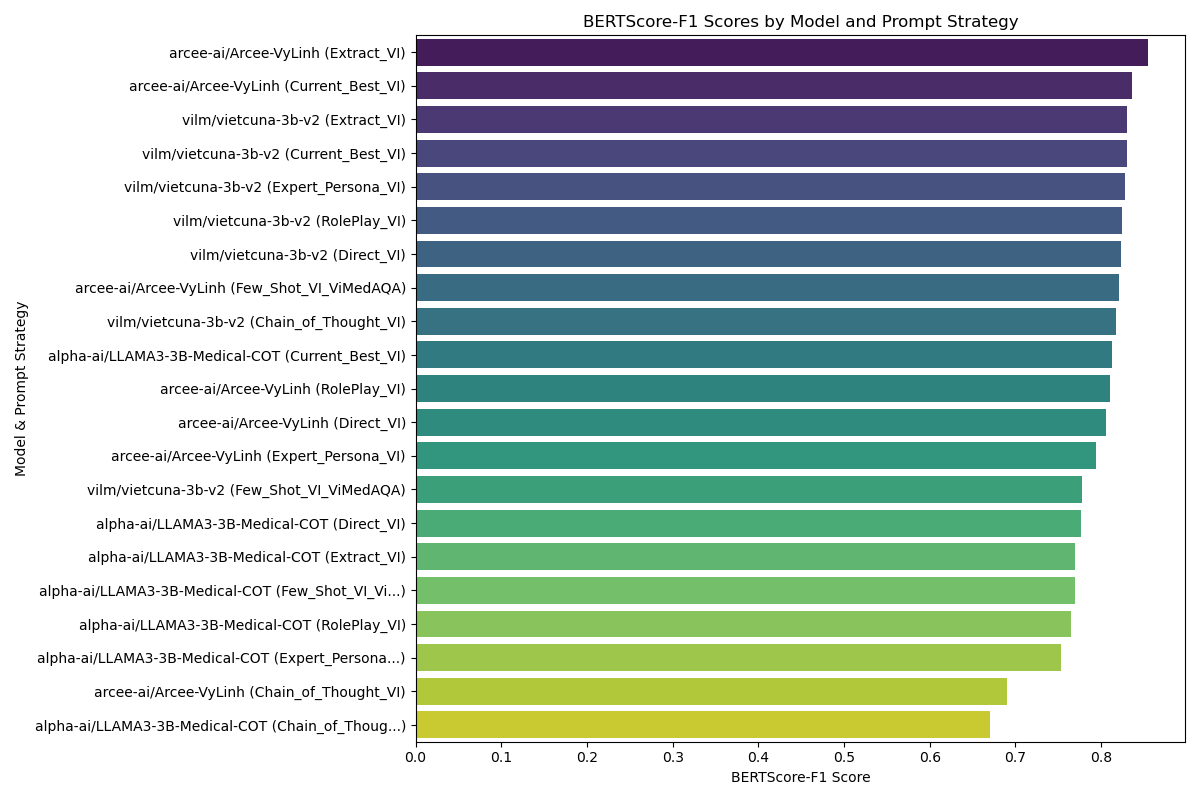
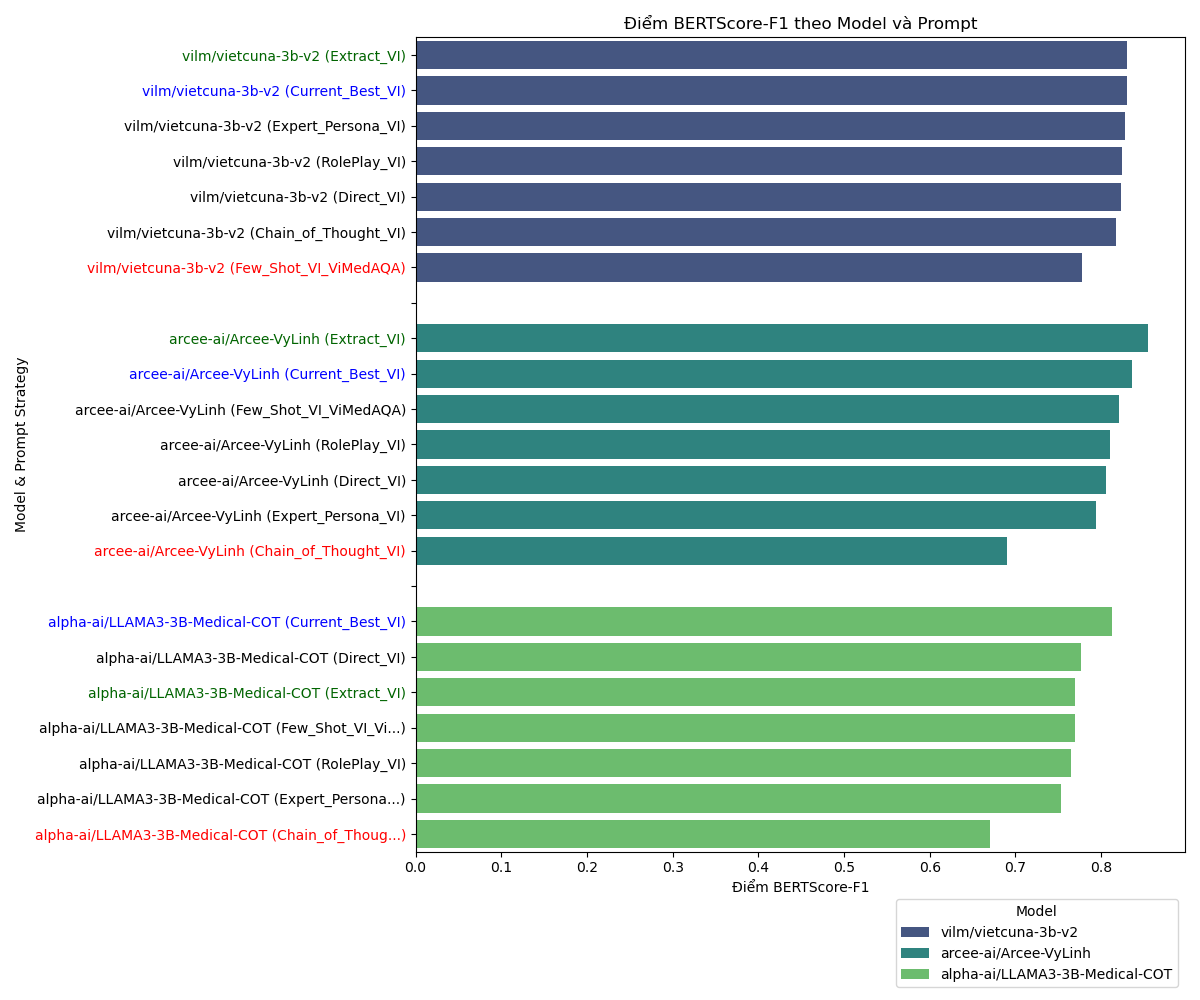
Bertscore by model

diff --git a/eval_report/200samples_7prompts_3models.py b/eval_report/200samples_7prompts_3models.py
@@ -3,6 +3,8 @@ import matplotlib.pyplot as plt
 import seaborn as sns
 import os
 import sys
+from sklearn.linear_model import LinearRegression
+import numpy as np
 
 # Create the DataFrame from the provided data
 data = {
@@ -41,6 +43,16 @@ df = pd.DataFrame(data)
 
 # Extract Model and Prompt Strategy into separate columns
 df[['Model', 'Prompt Strategy']] = df['Model & Prompt Strategy'].str.extract(r'([^\(]+)\s\((.*)\)')
+model_order = [
+    'vilm/vietcuna-3b-v2',
+    'arcee-ai/Arcee-VyLinh',
+    'alpha-ai/LLAMA3-3B-Medical-COT'
+]
+df['Model'] = pd.Categorical(df['Model'], categories=model_order, ordered=True)
+
+# --- Sắp xếp DataFrame để nhóm theo Model ---
+# Sắp xếp theo Model, sau đó theo BERTScore-F1 giảm dần để dễ đọc hơn
+df = df.sort_values(by=['Model', 'BERTScore-F1'], ascending=[True, False]).reset_index(drop=True)
 
 # --- Create a new directory for results ---
 script_path = os.path.abspath(sys.argv[0])
@@ -51,78 +63,124 @@ os.makedirs(results_dir, exist_ok=True)
 print(f"Results will be saved in: {results_dir}")
 
 # --- Save Summary Tables to a Markdown file within the new directory ---
-report_filename = os.path.join(results_dir, 'performance_report.md') # Changed extension to .md
-with open(report_filename, 'w') as f:
-    f.write("# Language Model Performance Report\n\n")
+report_filename = os.path.join(results_dir, 'performance_report.md')
+with open(report_filename, 'w', encoding='utf-8') as f: # Thêm encoding='utf-8' để hỗ trợ tiếng Việt
+    f.write("# Báo cáo hiệu suất các mô hình ngôn ngữ\n\n")
 
-    # Average performance by model
-    avg_performance_by_model = df.groupby('Model').mean(numeric_only=True)
-    f.write("## Average Performance by Model\n\n")
-    f.write(avg_performance_by_model.to_markdown()) # <--- Changed to .to_markdown()
-    f.write("\n\n") # Add extra newlines for proper Markdown spacing
-
-    # Best performing prompt strategy for each model based on BERTScore-F1
-    best_prompt_by_model = df.loc[df.groupby('Model')['BERTScore-F1'].idxmax()]
-    f.write("## Best Performing Prompt Strategy by Model (based on BERTScore-F1)\n\n")
-    f.write(best_prompt_by_model[['Model', 'Prompt Strategy', 'BERTScore-F1', 'Generation Time (s)']].to_markdown()) # <--- Changed to .to_markdown()
-    f.write("\n\n") # Add extra newlines for proper Markdown spacing
-
-    f.write("## Linear Regression Analysis (BERTScore-F1 vs. Generation Time)\n\n")
+    # --- THÊM PHẦN TÓM TẮT MỚI ---
+    f.write("## Tóm tắt hiệu suất theo từng LLM\n\n")
+    # Lặp qua từng model để tìm prompt tốt nhất và tệ nhất
+    # Dùng df['Model'].unique() đã được sắp xếp để đảm bảo thứ tự
     for model_name in df['Model'].unique():
         model_df = df[df['Model'] == model_name]
-        # Skip models with fewer than 2 data points for regression, as it would be ill-defined.
-        if len(model_df) < 2:
-            f.write(f"\n### Model: {model_name.strip()}\n")
-            f.write(f"  *Not enough data points ({len(model_df)}) for meaningful linear regression.*\n")
-            continue
+        best_prompt_row = model_df.loc[model_df['BERTScore-F1'].idxmax()]
+        worst_prompt_row = model_df.loc[model_df['BERTScore-F1'].idxmin()]
 
-        X = model_df[['Generation Time (s)']]
-        y = model_df['BERTScore-F1']
+        f.write(f"### {model_name.strip()}\n\n")
+        f.write(f"*   **Prompt hiệu quả nhất:** `{best_prompt_row['Prompt Strategy']}` với BERTScore-F1 là **{best_prompt_row['BERTScore-F1']:.4f}**.\n")
+        f.write(f"*   **Prompt kém hiệu quả nhất:** `{worst_prompt_row['Prompt Strategy']}` với BERTScore-F1 là **{worst_prompt_row['BERTScore-F1']:.4f}**.\n\n")
 
-        from sklearn.linear_model import LinearRegression # Moved import here to keep main imports clean
-        reg = LinearRegression().fit(X, y)
-        r_squared = reg.score(X, y)
-        coef = reg.coef_[0]
-        intercept = reg.intercept_
+    # Average performance by model
+    avg_performance_by_model = df.groupby('Model', observed=False).mean(numeric_only=True)
+    f.write("## Hiệu suất trung bình theo Model\n\n")
+    f.write(avg_performance_by_model.to_markdown())
+    f.write("\n\n")
 
-        f.write(f"\n### Model: {model_name.strip()}\n")
-        f.write(f"```\n") # Markdown code block for better readability of results
-        f.write(f"R-squared: {r_squared:.4f}\n")
-        f.write(f"Coefficient (slope): {coef:.8f}\n")
-        f.write(f"Intercept: {intercept:.4f}\n")
-        f.write(f"Interpretation: For every 1-second increase in generation time, the BERTScore-F1 is predicted to decrease by {abs(coef):.8f}.\n")
-        f.write(f"```\n") # End of code block
-    f.write("\n") # Ensure a newline at the end
+    # Best performing prompt strategy for each model based on BERTScore-F1
+    best_prompt_by_model = df.loc[df.groupby('Model', observed=False)['BERTScore-F1'].idxmax()]
+    f.write("## Prompt hiệu quả nhất theo từng Model (dựa trên BERTScore-F1)\n\n")
+    f.write(best_prompt_by_model[['Model', 'Prompt Strategy', 'BERTScore-F1', 'Generation Time (s)']].to_markdown())
+    f.write("\n\n")
 
     # Add links to the saved graphs
-    f.write("## Visualizations\n\n")
-    f.write(f"### BERTScore-F1 Scores by Model and Prompt Strategy\n")
-    f.write(f"![BERTScore-F1 Scores Bar Plot]({os.path.basename(os.path.join(results_dir, 'bertscore_f1_scores_barplot.png'))})\n\n")
-    f.write(f"### Generation Time vs. BERTScore-F1 with Linear Regression\n")
-    f.write(f"![Generation Time vs. BERTScore-F1 Scatter Plot]({os.path.basename(os.path.join(results_dir, 'generation_time_vs_bertscore_regression.png'))})\n\n")
+    f.write("## Biểu đồ trực quan\n\n")
+    f.write(f"### Điểm BERTScore-F1 theo Model và Prompt\n")
+    # Sử dụng os.path.basename để lấy tên file cho đường dẫn tương đối trong Markdown
+    graph1_basename = os.path.basename(os.path.join(results_dir, 'bertscore_f1_scores_barplot.png'))
+    f.write(f"![Biểu đồ cột điểm BERTScore-F1]({graph1_basename})\n\n")
+
+    f.write(f"### Thời gian tạo và điểm BERTScore-F1 (có đường hồi quy)\n")
+    graph2_basename = os.path.basename(os.path.join(results_dir, 'generation_time_vs_bertscore_regression.png'))
+    f.write(f"![Biểu đồ phân tán thời gian và điểm BERTScore-F1]({graph2_basename})\n\n")
 
 
-print(f"Textual report saved to {report_filename}")
+print(f"Báo cáo Markdown đã được lưu tại: {report_filename}")
+
+# --- Add small gaps between the bars of each model ---
+# Create a list to hold all the DataFrame pieces
+dfs_to_concat = []
+for i, model_name in enumerate(model_order):
+    # Add the model's DataFrame to the list
+    model_df = df[df['Model'] == model_name].copy()
+    dfs_to_concat.append(model_df)
+
+    # Add a separator after each model except the last one
+    if i < len(model_order) - 1:
+        # Create the separator row as a dictionary
+        separator_row_data = {col: np.nan for col in df.columns}
+        separator_row_data['Model & Prompt Strategy'] = ' ' * (i + 1)
+        separator_row_data['Prompt Strategy'] = 'SEPARATOR'
+        
+        # Convert the dictionary to a single-row DataFrame
+        separator_df = pd.DataFrame([separator_row_data])
+        
+        # KEY CHANGE: Force the separator DataFrame to have the same dtypes as the original.
+        # This is the definitive fix for the FutureWarning.
+        separator_df = separator_df.astype(df.dtypes)
+        
+        # Add the correctly-typed separator DataFrame to the list
+        dfs_to_concat.append(separator_df)
+
+# Perform a single, efficient concatenation of all pieces. The warning will now be gone.
+df_with_gaps = pd.concat(dfs_to_concat, ignore_index=True)
+
+# Re-apply categorical type just to be safe, although it should be preserved
+df_with_gaps['Model'] = pd.Categorical(df_with_gaps['Model'], categories=model_order, ordered=True)
 
 # --- Generate and Save Graphs within the new directory ---
 # Bar chart of BERTScore-F1 scores by Model and Prompt Strategy
-plt.figure(figsize=(12, 8))
-sns.barplot(
-    data=df,
+plt.figure(figsize=(12, 10)) # Tăng chiều cao để vừa với các nhãn
+ax = sns.barplot(
+    data=df_with_gaps, # df đã được sắp xếp
     x='BERTScore-F1',
     y='Model & Prompt Strategy',
-    hue='Model & Prompt Strategy',
-    palette='viridis',
-    legend=False
+    hue='Model', # Tô màu theo Model để dễ phân biệt
+    dodge=False, # Tắt dodge để các thanh thẳng hàng
+    palette='viridis'
 )
-plt.title('BERTScore-F1 Scores by Model and Prompt Strategy')
-plt.xlabel('BERTScore-F1 Score')
+plt.title('Điểm BERTScore-F1 theo Model và Prompt')
+plt.xlabel('Điểm BERTScore-F1')
 plt.ylabel('Model & Prompt Strategy')
+plt.legend(title='Model', bbox_to_anchor=(1, -0.05), loc='upper right') # Đã thay đổi
 plt.tight_layout()
+
+# Identify the lowest performing prompt for each model
+lowest_prompts_per_model_full_string = df.loc[df.groupby('Model', observed=False)['BERTScore-F1'].idxmin()]['Model & Prompt Strategy'].tolist()
+
+# Iterate through the y-axis tick labels and color them
+for label_text in ax.get_yticklabels():
+    full_label_text = label_text.get_text()
+
+    # Extract Prompt Strategy from the full label text
+    start_index = full_label_text.find('(')
+    end_index = full_label_text.find(')')
+    
+    if start_index != -1 and end_index != -1:
+        prompt_strategy = full_label_text[start_index + 1 : end_index]
+        
+        # Apply coloring based on specific prompt strategies
+        if prompt_strategy == 'Extract_VI':
+            label_text.set_color('darkgreen')
+        elif prompt_strategy == 'Current_Best_VI':
+            label_text.set_color('blue')
+        # Apply coloring for the lowest prompt for each model
+        elif full_label_text in lowest_prompts_per_model_full_string:
+            label_text.set_color('red')
+
 graph1_filename = os.path.join(results_dir, 'bertscore_f1_scores_barplot.png')
 plt.savefig(graph1_filename)
 plt.close()
-print(f"Graph '{graph1_filename}' saved.")
+print(f"Biểu đồ '{graph1_filename}' đã được lưu.")
 
 
 # Scatter plot of Generation Time vs. BERTScore-F1 with Regression Lines
@@ -131,8 +189,7 @@ ax = sns.scatterplot(data=df, x='Generation Time (s)', y='BERTScore-F1', hue='Mo
 
 for model_name in df['Model'].unique():
     model_df = df[df['Model'] == model_name]
-    # Ensure there's enough data for regression line calculation
-    if len(model_df) > 1: # Regression needs at least 2 points
+    if len(model_df) > 1:
         sns.regplot(
             data=model_df,
             x='Generation Time (s)',
@@ -143,12 +200,12 @@ for model_name in df['Model'].unique():
             line_kws={'alpha': 0.2}
         )
 
-plt.title('Generation Time vs. BERTScore-F1 with Linear Regression')
-plt.xlabel('Generation Time (s)')
-plt.ylabel('BERTScore-F1')
+plt.title('Thời gian tạo và điểm BERTScore-F1 (có đường hồi quy)')
+plt.xlabel('Thời gian tạo (s)')
+plt.ylabel('Điểm BERTScore-F1')
 plt.legend(bbox_to_anchor=(1.05, 1), loc='upper left')
 plt.tight_layout()
 graph2_filename = os.path.join(results_dir, 'generation_time_vs_bertscore_regression.png')
 plt.savefig(graph2_filename)
 plt.close()
-print(f"Graph '{graph2_filename}' saved.")
+print(f"Biểu đồ '{graph2_filename}' đã được lưu.")

diff --git a/eval_report/200samples_7prompts_3models/performance_report.md b/eval_report/200samples_7prompts_3models/performance_report.md
@@ -1,53 +1,43 @@
-# Language Model Performance Report
+# Báo cáo hiệu suất các mô hình ngôn ngữ
 
-## Average Performance by Model
+## Tóm tắt hiệu suất theo từng LLM
+
+### vilm/vietcuna-3b-v2
+
+*   **Prompt hiệu quả nhất:** `Extract_VI` với BERTScore-F1 là **0.8300**.
+*   **Prompt kém hiệu quả nhất:** `Few_Shot_VI_ViMedAQA` với BERTScore-F1 là **0.7781**.
+
+### arcee-ai/Arcee-VyLinh
+
+*   **Prompt hiệu quả nhất:** `Extract_VI` với BERTScore-F1 là **0.8551**.
+*   **Prompt kém hiệu quả nhất:** `Chain_of_Thought_VI` với BERTScore-F1 là **0.6903**.
+
+### alpha-ai/LLAMA3-3B-Medical-COT
+
+*   **Prompt hiệu quả nhất:** `Current_Best_VI` với BERTScore-F1 là **0.8124**.
+*   **Prompt kém hiệu quả nhất:** `Chain_of_Thoug...` với BERTScore-F1 là **0.6698**.
+
+## Hiệu suất trung bình theo Model
 
 | Model                          |   ROUGE-L |     BLEU |   METEOR |   BERTScore-F1 |   Generation Time (s) |
 |:-------------------------------|----------:|---------:|---------:|---------------:|----------------------:|
-| alpha-ai/LLAMA3-3B-Medical-COT |  0.390086 | 0.147314 | 0.421771 |       0.7595   |               687.016 |
-| arcee-ai/Arcee-VyLinh          |  0.473357 | 0.218086 | 0.570871 |       0.801586 |              2027.6   |
 | vilm/vietcuna-3b-v2            |  0.512029 | 0.2251   | 0.525357 |       0.818643 |               689.79  |
+| arcee-ai/Arcee-VyLinh          |  0.473357 | 0.218086 | 0.570871 |       0.801586 |              2027.6   |
+| alpha-ai/LLAMA3-3B-Medical-COT |  0.390086 | 0.147314 | 0.421771 |       0.7595   |               687.016 |
 
-## Best Performing Prompt Strategy by Model (based on BERTScore-F1)
+## Prompt hiệu quả nhất theo từng Model (dựa trên BERTScore-F1)
 
-|     | Model                          | Prompt Strategy | BERTScore-F1 | Generation Time (s) |
-| --: | :----------------------------- | :-------------- | -----------: | ------------------: |
-|   9 | alpha-ai/LLAMA3-3B-Medical-COT | Current_Best_VI |       0.8124 |              307.17 |
-|   0 | arcee-ai/Arcee-VyLinh          | Extract_VI      |       0.8551 |              754.84 |
-|   2 | vilm/vietcuna-3b-v2            | Extract_VI      |         0.83 |              556.98 |
+|    | Model                          | Prompt Strategy   |   BERTScore-F1 |   Generation Time (s) |
+|---:|:-------------------------------|:------------------|---------------:|----------------------:|
+|  0 | vilm/vietcuna-3b-v2            | Extract_VI        |         0.83   |                556.98 |
+|  7 | arcee-ai/Arcee-VyLinh          | Extract_VI        |         0.8551 |                754.84 |
+| 14 | alpha-ai/LLAMA3-3B-Medical-COT | Current_Best_VI   |         0.8124 |                307.17 |
 
-## Linear Regression Analysis (BERTScore-F1 vs. Generation Time)
+## Biểu đồ trực quan
 
+### Điểm BERTScore-F1 theo Model và Prompt
+![Biểu đồ cột điểm BERTScore-F1](bertscore_f1_scores_barplot.png)
 
-### Model: arcee-ai/Arcee-VyLinh
-```
-R-squared: 0.9838
-Coefficient (slope): -0.00004191
-Intercept: 0.8866
-Interpretation: For every 1-second increase in generation time, the BERTScore-F1 is predicted to decrease by 0.00004191.
-```
-
-### Model: vilm/vietcuna-3b-v2
-```
-R-squared: 0.9718
-Coefficient (slope): -0.00007002
-Intercept: 0.8669
-Interpretation: For every 1-second increase in generation time, the BERTScore-F1 is predicted to decrease by 0.00007002.
-```
-
-### Model: alpha-ai/LLAMA3-3B-Medical-COT
-```
-R-squared: 0.8813
-Coefficient (slope): -0.00009404
-Intercept: 0.8241
-Interpretation: For every 1-second increase in generation time, the BERTScore-F1 is predicted to decrease by 0.00009404.
-```
-
-## Visualizations
-
-### BERTScore-F1 Scores by Model and Prompt Strategy
-![BERTScore-F1 Scores Bar Plot](bertscore_f1_scores_barplot.png)
-
-### Generation Time vs. BERTScore-F1 with Linear Regression
-![Generation Time vs. BERTScore-F1 Scatter Plot](generation_time_vs_bertscore_regression.png)
+### Thời gian tạo và điểm BERTScore-F1 (có đường hồi quy)
+![Biểu đồ phân tán thời gian và điểm BERTScore-F1](generation_time_vs_bertscore_regression.png)
 
